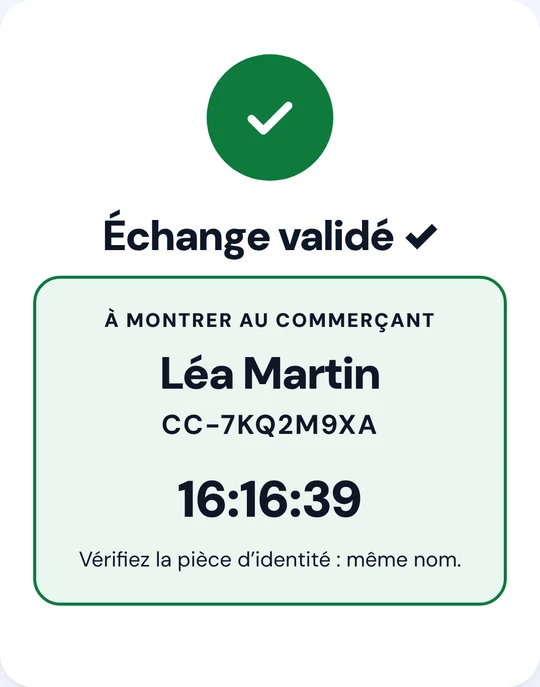
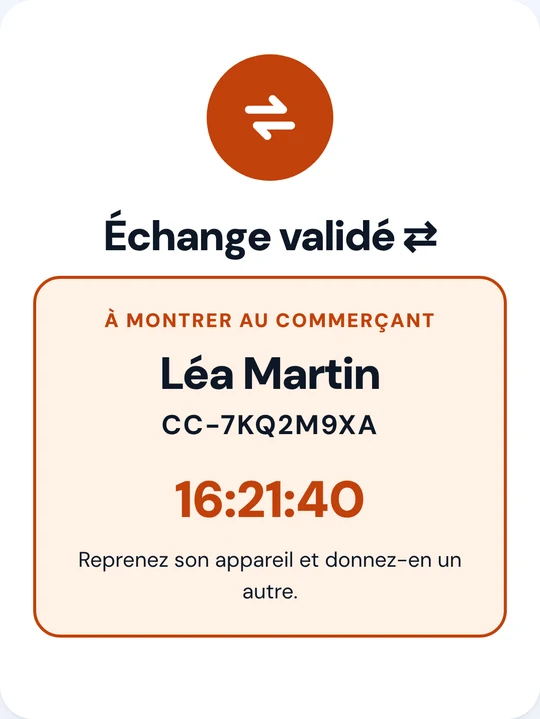
Échange en orange avec des flèches (écran client + flyer) : retrait vert, retour bleu, échange orange, impossible à confondre
Claude-Session: https://claude.ai/code/session_01GEnKbPYfUY1zWoPXS2iGVo

Changed region(s): [[0.0593, 0.2751, 0.9481, 0.8865], [0.3556, 0.0611, 0.6222, 0.2751]]

diff --git a/retrait.html b/retrait.html
@@ -83,6 +83,11 @@ input.pin{letter-spacing:.5em;font-weight:800;font-size:24px;text-align:center}
 .fini .m-ref{font-size:18px;font-weight:700;letter-spacing:.06em}
 .fini .m-horloge{font-size:34px;font-weight:900;font-variant-numeric:tabular-nums;color:var(--ok);margin:10px 0 4px}
 .fini .m-piece{font-size:14px;color:var(--ink-2)}
+/* échange : couleur orange et flèches, pour que le commerçant ne le confonde
+   jamais avec un retrait (vert) */
+.fini.ech .rond{background:#C2410C}
+.fini.ech .montrer{border-color:#C2410C;background:#FFF1E6}
+.fini.ech .m-a,.fini.ech .m-horloge{color:#C2410C}
 .code-l{display:block;font-weight:800;margin:16px 0 6px}
 .code-com{width:100%;min-height:58px;border:1.5px solid var(--line);border-radius:14px;font:900 28px 'DM Sans',sans-serif;letter-spacing:.3em;text-align:center;color:var(--ink);background:#fff}
 .code-com:focus{outline:none;border-color:var(--vif);box-shadow:0 0 0 3px rgba(26,94,219,.18)}
@@ -333,7 +338,14 @@ html:not([data-l="en"]):not([data-l="es"]) [lang="en"],html:not([data-l="en"]):n
   /* écran de confirmation à montrer au commerçant : nom, numéro, et une
      horloge qui tourne à la seconde (une capture d'écran ne bouge pas) */
   var minuterie = null;
-  function montrerAuCommercant(){
+  var COCHE = '<path d="M5 12.5l4.5 4.5L19 7.5"/>', FLECHES = '<path d="M4 9h13l-4-4M20 15H7l4 4"/>';
+  function montrerAuCommercant(sorte){
+    var ech = sorte === 'echange';
+    document.querySelector('#e-fini .carte').classList.toggle('ech', ech);
+    document.querySelector('#e-fini .rond svg').innerHTML = ech ? FLECHES : COCHE;
+    document.querySelector('#e-fini .m-piece').textContent = ech
+      ? L('Reprenez son appareil et donnez-en un autre.', 'Take back the unit and hand over another one.', 'Recoge su aparato y entrégale otro.')
+      : L('Vérifiez la pièce d’identité : même nom.', 'Check the ID: same name.', 'Comprueba el documento de identidad: mismo nombre.');
     $('f-nom').textContent = ((etat.resa.prenom || '') + ' ' + (etat.resa.nom || '')).trim();
     $('f-ref').textContent = etat.resa.ref || etat.ref;
     $('f-montrer').hidden = false;
@@ -348,8 +360,8 @@ html:not([data-l="en"]):not([data-l="es"]) [lang="en"],html:not([data-l="en"]):n
       if(!r.ok) return erreur($('m-ech'), r.j.error || L('Échec. Réessayez.', 'Failed. Please try again.', 'Error. Inténtalo de nuevo.'));
       if(r.j.issue === 'echange_comptoir'){
         $('e-resa').hidden = true; $('e-fini').hidden = false; window.scrollTo(0, 0);
-        $('f-titre').textContent = L('Échange validé ✓', 'Swap confirmed ✓', 'Cambio confirmado ✓');
-        montrerAuCommercant();
+        $('f-titre').textContent = L('Échange validé ⇄', 'Swap confirmed ⇄', 'Cambio confirmado ⇄');
+        montrerAuCommercant('echange');
         $('f-texte').textContent = L('Le commerçant reprend votre appareil et vous en donne un autre, sous sa housse, avec sa gaine. Votre location continue jusqu’au ', 'The shopkeeper takes your unit and gives you another one, in its cover, with its hose. Your rental continues until ', 'El comerciante recoge tu aparato y te da otro, con su funda y su tubo. Tu alquiler sigue hasta el ') + date(etat.resa.date_fin).replace(/\.$/, '') + '.' + (r.j.dossier ? ' (' + r.j.dossier + ')' : '');
       } else {
         $('f-ech').hidden = false; b.hidden = true;

diff --git a/admin/flyers-commercants.html b/admin/flyers-commercants.html
@@ -38,7 +38,9 @@ body{margin:0;background:#E9EEF7;font-family:'DM Sans',system-ui,sans-serif;colo
 /* les 3 écrans que le client montre au commerçant (captures de retrait.html) */
 .ecrans{display:grid;grid-template-columns:repeat(3,1fr);gap:4mm;margin-top:8mm}
 .ecrans figure{margin:0;display:flex;flex-direction:column;gap:2mm}
-.ecrans img{width:100%;aspect-ratio:540/687;object-fit:cover;border:.4mm solid var(--line);border-radius:3mm;display:block}
+.ecrans img{width:100%;aspect-ratio:540/687;object-fit:cover;border:.8mm solid var(--c);border-radius:3mm;display:block}
+.ecrans figure{--c:#0F7A3D}.ecrans .f-rtr{--c:#1A5EDB}.ecrans .f-ech{--c:#C2410C}
+.ecrans figcaption b{color:var(--c)!important}
 .ecrans figcaption{font-size:3.2mm;line-height:1.3;color:var(--ink-2);text-align:center}
 .ecrans figcaption b{display:block;font-size:4mm;color:var(--ink);margin-bottom:.5mm}
 .bas{margin-top:auto;display:flex;gap:5mm;align-items:center}
@@ -84,9 +86,9 @@ body{margin:0;background:#E9EEF7;font-family:'DM Sans',system-ui,sans-serif;colo
             (p.code_retour ? '<p class="code">' + esc(p.code_retour) + '</p>' : '<p class="code vide">Téléphone manquant</p>') +
             '<p class="quand">Seulement au retour. Jamais à l’avance.</p></div>' +
           '<div class="ecrans">' +
-            '<figure><img src="/flyer-ecran-retrait.webp" alt="Écran vert « Retrait validé » avec le nom du client et l’heure qui défile"><figcaption><b>Retrait</b>Vérifiez sa pièce d’identité</figcaption></figure>' +
-            '<figure><img src="/flyer-ecran-retour.webp" alt="Écran du retour : photo du climatiseur sous housse et case « Code commerçant »"><figcaption><b>Retour</b>Donnez votre code</figcaption></figure>' +
-            '<figure><img src="/flyer-ecran-echange.webp" alt="Écran vert « Échange validé » avec le nom du client et l’heure qui défile"><figcaption><b>Échange</b>Donnez un autre appareil</figcaption></figure>' +
+            '<figure class="f-ret"><img src="/flyer-ecran-retrait.webp" alt="Écran vert « Retrait validé » avec le nom du client et l’heure qui défile"><figcaption><b>✓ Retrait</b>Vérifiez sa pièce d’identité</figcaption></figure>' +
+            '<figure class="f-rtr"><img src="/flyer-ecran-retour.webp" alt="Écran du retour : photo du climatiseur sous housse et case « Code commerçant »"><figcaption><b>↩ Retour</b>Donnez votre code</figcaption></figure>' +
+            '<figure class="f-ech"><img src="/flyer-ecran-echange.webp" alt="Écran vert « Échange validé » avec le nom du client et l’heure qui défile"><figcaption><b>⇄ Échange</b>Donnez un autre appareil</figcaption></figure>' +
           '</div>' +
           '<div class="bas"><img src="' + qr + '" alt="QR code espace partenaire"><p><b>Votre espace partenaire</b>Un souci&nbsp;? 06 63 79 87 56</p></div>' +
         '</section>';
